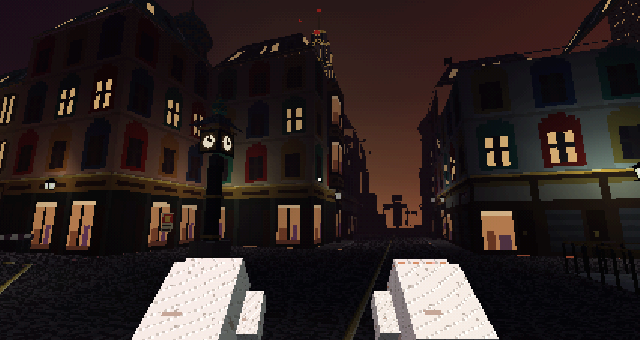
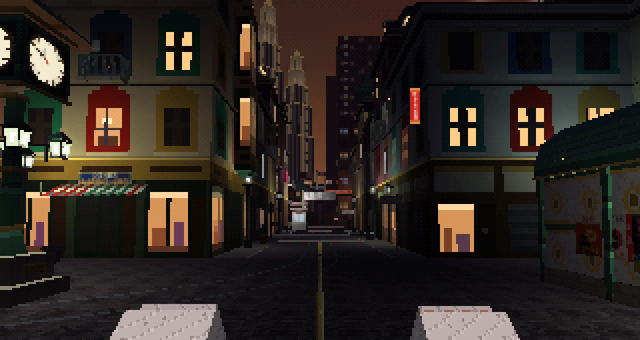
Street polish: checkpoint flags on the gantry, the booth's board clear of the post, cheaper road lighting, the near mesh's rule, tests, README, perf
- The close detail is its own baked mesh (2.9k) drawn within 62 m of the square (CFG.street.nearDraw); the street's mesh
  goes 23.0k -> 20.6k (coarser light cells on the open roads), so Act 1's far views are ~2.4k tris/eye cheaper.
- test/street.js: 59 checks (+ the near mesh and its rule, the landmarks solid, the fight lanes clear).
- docs/perf.md: the street's views and the far ones re-measured. docs/street.png reshot.

Claude-Session: https://claude.ai/code/session_01764GRfmVxgzpfD5b4d1H9q

diff --git a/src/street/build.js b/src/street/build.js
@@ -374,8 +374,8 @@ function checkpoint(acc, nd, z) {
   const bx = 2.9, bz = z + 0.4;
   sbox(acc, 'booth', bx, 0, bz, 2.0, 2.2, 2.7, 0, { u: 2.0, v: 2.7, top: 'concrete', faceKey: { b: 'booth', l: 'booth' } });
   sbox(acc, 'concrete', bx, 2.7, bz, 2.4, 2.6, 0.2, 0, { u: 2, v: 1 });
-  for (const s of [-1, 1]) sbox(nd, 'iron', bx + s * 0.9, 2.9, bz - 0.9, 0.06, 0.06, 0.5, 0, { u: 1, v: 1 });
-  plate(acc, 'militiaSign', bx, 3.62, bz - 0.9, 2.3, 0.58, Math.PI, 0.01, [0, 0, 1, 1], true);   // the board on the roof
+  for (const s of [-1, 1]) sbox(nd, 'iron', bx + 0.35 + s * 0.7, 2.9, bz - 0.9, 0.06, 0.06, 0.5, 0, { u: 1, v: 1 });
+  plate(acc, 'militiaSign', bx + 0.35, 3.6, bz - 0.9, 1.8, 0.46, Math.PI, 0.01, [0, 0, 1, 1], true);   // the board on the roof (clear of the gantry's post)
   plate(nd, 'stBoothSign', bx, 2.32, bz - 1.1, 1.0, 0.42, Math.PI, 0.02);
   sbox(acc, 'flood', bx - 0.8, 2.92, bz - 1.05, 0.3, 0.26, 0.24, 0.35, { u: 0.3, v: 0.24 });
   // the sign over the road: YOU ARE LEAVING THE OLD QUARTER (and, on the far side, the militia's own)
@@ -387,13 +387,13 @@ function checkpoint(acc, nd, z) {
   // the boom's counterweight post
   sbox(acc, 'iron', 1.7, 0, z, 0.3, 0.3, 1.1, 0, { u: 1, v: 1 });
   // FIREARMS ARE BANNED: a board on two posts on the left pavement, turned to the approach
-  { const cx = -3.55, cz = z - 4.5, phi = Math.PI - 0.38, [ax, az] = LP(cx, cz, phi, -0.95, 0), [ex, ez] = LP(cx, cz, phi, 0.95, 0);
-    plate(acc, 'stCheckR', cx, 2.42, cz, 2.0, 0.6, phi, 0.03);
-    plate(acc, 'concrete', cx, 2.42, cz, 2.0, 0.6, phi + Math.PI, 0.0);
+  { const cx = -3.7, cz = z - 4.5, phi = Math.PI - 0.3, [ax, az] = LP(cx, cz, phi, -0.75, 0), [ex, ez] = LP(cx, cz, phi, 0.75, 0);   // (its posts stay on the pavement)
+    plate(acc, 'stCheckR', cx, 2.42, cz, 1.6, 0.48, phi, 0.03);
+    plate(acc, 'concrete', cx, 2.42, cz, 1.6, 0.48, phi + Math.PI, 0.0);
     for (const [px, pz] of [[ax, az], [ex, ez]]) { sbox(acc, 'iron', px, 0, pz, 0.08, 0.08, 2.76, 0, { u: 1, v: 1 }); BLOCKERS.push({ x0: px - 0.08, x1: px + 0.08, z0: pz - 0.08, z1: pz + 0.08 }); WORLD_BOXES.push([px - 0.06, 0, pz - 0.06, px + 0.06, 2.76, pz + 0.06]); }
     ST.lamps.push(lightFromHex([cx + 0.6, 1.2, cz - 1.4], CFG.street.light.flood, 3.4, 0.7)); }
   // sandbags: round the booth's corner and either side of the road
-  sbox(acc, 'sandbag', bx + 1.35, 0, bz - 0.2, 0.7, 2.4, 0.95, 0, { u: 1.2, v: 0.6, top: 'sandbag', tu: 1.2 }); WORLD_BOXES.push([bx + 1.0, 0, bz - 1.4, bx + 1.7, 0.95, bz + 1.0]);
+  sbox(acc, 'sandbag', bx + 1.35, 0, bz - 0.2, 0.7, 2.4, 0.95, 0, { u: 1.2, v: 0.6, top: 'sandbag', tu: 1.2 }); WORLD_BOXES.push([bx + 1.0, 0, bz - 1.3, bx + 1.7, 0.95, bz + 1.0]);
   sbox(acc, 'sandbag', -4.0, 0, z + 1.2, 1.2, 1.2, 1.0, 0, { u: 1.2, v: 0.6, top: 'sandbag', tu: 1.2 });
   sbox(acc, 'sandbag', -6.2, 0, z + 2.6, 3.2, 0.9, 0.9, 0.35, { u: 1.2, v: 0.6, top: 'sandbag', tu: 1.2 });
   // the flags on the gantry over the sign: the Free City's plum and brass flying highest in the middle, the three
@@ -412,7 +412,7 @@ function checkpoint(acc, nd, z) {
   ST.lamps.push(lightFromHex([bx - 1.1, 2.0, bz], '#cfe6ff', 4.5, 0.8));
   ST.lamps.push(lightFromHex([bx, 3.9, bz - 1.6], CFG.street.light.flood, 3.2, 0.8));   // the roof board's own lamp
   WORLD_BOXES.push([bx - 1.0, 0, bz - 1.1, bx + 1.0, 2.7, bz + 1.1], [-4.4, 0.85, z - 0.07, 1.7, 1.06, z + 0.07]);
-  BLOCKERS.push({ x0: bx - 1.0, x1: bx + 1.7, z0: bz - 1.4, z1: bz + 1.1 });
+  BLOCKERS.push({ x0: bx - 1.0, x1: bx + 1.0, z0: bz - 1.1, z1: bz + 1.1 }, { x0: bx + 1.0, x1: bx + 1.7, z0: bz - 1.3, z1: bz + 1.0 });
   // the Accords wall's first watchtower, on the Columbian corner of the Ring Road: a concrete shaft, a lit cab, a searchlight
   { const tx = 7.2, tz = z + 13.5;
     sbox(acc, 'concrete', tx, 0, tz, 1.3, 1.3, 7.4, 0, { u: 2, v: 2 });

diff --git a/test/street.js b/test/street.js
@@ -47,6 +47,20 @@ try {
     check('the outdoor levels are a few meshes (street, skylines, sky, beacons, and at most two per level after the street)', streetMeshes.length <= 5 + 2 * nL, streetMeshes.length + ' static meshes for ' + nL + ' levels'); }
   const litTris = run('ST.lit.tris'), skyTris = run('ST.sky.tris');
   check('street + skylines under the triangle budget', litTris + skyTris < 80000, `${litTris} street + ${skyTris} skyline tris`);
+  // ---- the polish: the close detail (cornices, balconies, signs, the tram) is its own mesh, drawn only near the street
+  { const NM = TW.ST.nearMesh, nt = run('ST.nearTris'), nd = S.nearDraw;
+    const at = (x, z) => run(`(() => { const h = player.head.clone(); player.head.set(${x}, 1.7, ${z}); const ok = nearOk(ST.nearMesh); player.head.copy(h); return ok; })()`);
+    check('the street\'s close detail is one baked mesh drawn only near the street (the square, the road, the gate), never from Act 1\'s far views',
+      NM && NM.geometry.attributes.bake && TW.ROOMS.get('outside').meshes.has(NM) && NM.userData.near === nd && nt < 4000 && litTris + nt < 26000
+      && at(0, 7) && at(0, 50) && at(-3, 64) && !at(-40, 140) && !at(-36, 129) && !at(-160, 198),
+      `${nt} near tris + ${litTris} street (was 23038 street alone)`); }
+  // the square's landmarks are solid, and the fight lanes down the square and the road stay clear
+  { const solid = (x, z, r) => { const q = V(x, 0, z); TW.pushOutXZ(q, 0.3); return Math.hypot(q.x - x, q.z - z) > r; };
+    const [cx, cz] = TW.STREET.clock, [sx, sz] = TW.STREET.station;
+    check('the Brass Clock, Tripoint Station\'s pavilion and the poster column are solid', solid(cx, cz, 0.5) && solid(sx, sz, 1.0) && solid(sx + 1.3, sz - 1.9, 0.05) && solid(11.4, 17.4, 0.5));
+    let blocked = []; for (let z = 23; z <= 55.2; z += 0.4) for (const x of [-2.4, -1.2, 0, 1.2, 2.4]) { const q = V(x, 0, z); TW.pushOutXZ(q, 0.3); if (Math.hypot(q.x - x, q.z - z) > 1e-6) blocked.push(`${x},${z.toFixed(1)}`); }
+    for (let z = 6.5; z <= 21; z += 0.5) for (const x of [-4, -2, 0, 2, 4]) { const q = V(x, 0, z); TW.pushOutXZ(q, 0.3); if (Math.hypot(q.x - x, q.z - z) > 1e-6) blocked.push(`${x},${z.toFixed(1)}`); }
+    check('the fight lanes stay clear: nothing new stands in the square\'s middle or the road\'s cobbles', !blocked.length, blocked.slice(0, 4).join(' ') || 'clear'); }
   // ---- the skylines: the scale ladder, the moving lights, the Halcyon, all inside the camera's reach
   { const SKY = run('SKY'), H = SKY.heights, towerTop = run('typeof TWR !== "undefined" ? TWR.spire : 252'), far = TW.CFG.render.camFar;
     check('the skylines\' own share stays lean (big texture repeats, not geometry)', TW.ST.skylineTris < 16000, TW.ST.skylineTris + ' tris (was 16744 before the pass)');

diff --git a/README.md b/README.md
@@ -65,10 +65,17 @@ Desktop: mouse look, WASD, left/right click (or J/K) punch, Shift heavy, hold X 
 
 Clear the bar and the front door swings open onto **Tripoint Square** at night. Walk out and the street starts.
 
-- **The square:** Old Quarter tenements (plaster, Krasnovian painted window surrounds, Columbian cast-iron shopfronts, Hinomoto tile roofs) under green-copper and slate roofs, lit by pale gaslight. The Brass Clock (1888), sealed Tripoint Station, St. Vost Cathedral's onion domes over the roofs. Three brass lines in the setts (the Accords borders) meet at the Threeway's door. The Threeway's front: pink neon and all three flags over the door. The other two old roads are barricaded by the militia.
+- **The square:** Old Quarter tenements (plaster, Krasnovian painted window surrounds, Columbian cast-iron shopfronts, Hinomoto tile roofs) under green-copper and slate roofs, lit by pale gaslight, with Secession detail: cornices on dentils, garland friezes, string courses, wrought-iron balconies, dormers on the mansards, a cast-iron oriel under a copper helmet, striped awnings, shop signs in the city's three scripts (APOTHEKE · АПТЕКА, TABAK, БУЛОЧНАЯ, DINER, КНИГИ · BOOKS, RADIO · РАДИО) and Hinomoto blade signs. Some life in the windows: someone looking out, a TV's blue, a radio's glow. Three brass lines in the setts (the Accords borders) meet at the Threeway's door in a brass roundel of the three sectors, 1962.
+  - **The Threeway's front**, the hero shopfront: pink neon (THE THREEWAY, a tube round the whole front, a BAR · БАР blade on the corner), the three flags hung as long banners between the upper windows, a fanlight over the door, a brass plate with its name in three scripts, and the owner at the upstairs window.
+  - **The Brass Clock (1888)**, the centrepiece: a green cast-iron column on a stepped stone plinth (1888 on all four sides), four gas lanterns on its arms, a drum with four lit opal faces at ten to midnight, a Hinomoto tile hat and a gilded onion.
+  - **Tripoint Station**, sealed: a Secession metro pavilion (Otto Wagner's Karlsplatz kind): white marble panels with gilt sunflowers in green iron, a copper barrel roof with gilt ribs, METRO over TRIPOINT in gold, a glass canopy, the stairs fading into the dark, and across them a welded grille, chained and padlocked, with the Accords' notice nailed on (STATION CLOSED · СТАНЦИЯ ЗАКРЫТА · 1962). Posters from all three sides on its flank, and an advertising column across the square.
+  - **St. Vost Cathedral** (1740s): cream walls, two towers and a tall drum, the gilded onions floodlit over the north-west roofs, the central cross at 46 m.
+  - **The barricades:** the other two old roads are shut by the militia: sandbags, sawhorses, knife rests wound with barbed wire, ROAD CLOSED · ПРОЕЗД ЗАКРЫТ, and a floodlight on a tripod glaring cold into the gaslit square. Behind the east one, **tram 3**, stranded since 1962 on its own rails, which run round the Brass Clock and down the old road.
+- **The old road:** tram line 3's dead rails either side of the Accords line, the struck-through TRAM 3 stop, shuttered shops, posters from all three sides pasted over each other and the militia's notices on top, TRIPOINT TRAVEL with its routes home (Krasnograd, Halcyon, Ōkyō) all SUSPENDED, and the militia's CHECKPOINT 30 M sign.
 - **The fight:** three stretches: the square (punks and a kicker from the side roads), the old road (boxer, Bat Boy, the cook), and the last stretch before the checkpoint (Aoki Security, the wrestler, a kicker). Each stretch holds you in until it's clear; go down and you restart that stretch at full health.
 - **Street props:** crates (break after two hits), bins (never break) and cast-iron street signs (swing long, like the bat). Grab, swing, throw.
-- **The end:** the joint-militia checkpoint: booth, floodlight, the Free City's flag with the three powers'. Walk up to the boom and it lifts. The Ring Road and the Accords wall start beyond it.
+- **The end:** the joint-militia checkpoint, a set piece in the spirit of the famous Cold War crossings (invented signs only): a floodlit booth with its board on the roof, MILITIA · МИЛИЦИЯ, sandbags, a gantry over the road (YOU ARE LEAVING THE OLD QUARTER, in three scripts) flying the Free City's plum-and-brass flag highest with the three powers' either side, FIREARMS ARE BANNED · VOSTBURG ACCORDS 1962 on the pavement, a two-headed floodlight mast and the Accords wall's first watchtower on the Ring Road's corner. Walk up to the boom and it lifts. The Ring Road and the Accords wall start beyond it.
+- **Cost:** the shell is the street's one baked mesh (20.6k triangles, was 23.0k: the open road surfaces are lit in coarser cells); the close detail (cornices, balconies, dormers, signs, knife rests, the tram) is a second baked mesh (2.9k) drawn only within 62 m of the square and the road (`CFG.street.nearDraw`), so Act 1's far views pay nothing for it and are ~2.4k triangles per eye cheaper than before. The new paintings take the street atlas from 1024 to 2048 rows.
 - **The skylines, and the scale ladder** (each act tops the last: the Tower of Labor 252 m < Civic Harmony's mast 320 m < Aoki 400 m): Hinomoto's black-glass neon cluster behind the Threeway, brush-lettered boards and blade signs on every tower, the Shuto Expressway's bike trails, and **Aoki Development**, a black glass spike with red neon up every edge, seven neon-ringed eaves and a three-tier lit pagoda crown that pulses red. Krasnovia's even field of panel slabs and the TV tower right of the road, the Tower of Labor's floodlit massing, gold cog and six sweeping searchlights to the north-west. Columbia's **Liberty Avenue** ridge running across the view: floodlit cream setback crowns with gold bands, sunbursts and spires; **Civic Harmony** with its empty floodlit mooring mast, joined by a lit skybridge to the **Royal Hotel** (gold mansard, red ROYAL neon); six gold searchlights crossing the sky; and the **Halcyon**, a cream-and-gold zeppelin (FLY HALCYON down its flanks) circling the ridge every 3½ minutes, two searchlights keeping on its hull. It never moors. Red beacons blink on top. The sky glows red, sodium and gold over each sector.
 
 ## Act 1, level 3: the Krasnovian gate and Superblock 14
@@ -191,7 +198,7 @@ Every number lives in `CFG` in `src/config.js` (level 2: `CFG.street`: the stret
 No headset needed. The tests run the real game script against a small stand-in for Three.js (math and scene graph only, no rendering):
 
 ```
-node test/street.js    # 56 checks: the scale ladder and the skylines (Aoki tallest, in reach of the far plane, the sky band, the sweeping beams, the zeppelin's flight, clearance and lap), one-mesh bar room, prop batches, LOD stand-ins (the far city's tiles over the skyline mesh's buffers, every vertex drawn once), portal culling, the door opens and leads outside, walls and crossings, baked light and the live lights outside/inside, the stretches (trigger, spawn, arena lock, clear, lose + restart), the boom, crates/bins/signs, draw calls + triangle budget, street physics cost
+node test/street.js    # 59 checks: the scale ladder and the skylines (Aoki tallest, in reach of the far plane, the sky band, the sweeping beams, the zeppelin's flight, clearance and lap), one-mesh bar room, prop batches, LOD stand-ins (the far city's tiles over the skyline mesh's buffers, every vertex drawn once), portal culling, the door opens and leads outside, walls and crossings, baked light and the live lights outside/inside, the stretches (trigger, spawn, arena lock, clear, lose + restart), the boom, crates/bins/signs, draw calls + triangle budget, the close detail's own mesh (drawn only near the street), the landmarks solid and the fight lanes clear, street physics cost
 node test/floors.js     # 29 checks: raised floors, ramps and stairs (a test staircase): the bar unchanged bit for bit, easing up a flight, landing edges, goons fighting, falling and getting up on a landing, props on floors
 node test/podezd.js     # 30 checks: in from the courtyard (no cut), the lobby, lift A breaks at the 7th, the landing, the link, the corridor fight, lift B, the roof (respawn on the roof), the cradle down; rides smooth (mm per frame), goons on their floors, rooms, physics cost
 node test/parade.js     # 50 checks: one baked mesh + triangle budget, nothing from the far city on it, west of x -6, the Tower's doorway left open, the reveal's framing (rays from the north doors at eye height to the Tower's doors, podium, tiers, cog and spire: nothing but the Tower in the way), THE TOWER OF LABOR once as you step out (then PARADE SQUARE), flat floor, out of the Palace's doors with no cut (a stub Palace if it isn't there), walls (the Palace's front, the ministry, the bleachers, the Tower's front) and solid floats/stand/drums/masts, the three fights in order (arena both ways, doors shut), restart after going down, the Tower's doors end it, hand-over with no jump, physics cost

diff --git a/docs/perf.md b/docs/perf.md
@@ -60,6 +60,33 @@ The street's own mesh (23k) can't be hidden this way. A sweep found it visible, 
 - **A sweep:** eyes on a 12 m grid over every outdoor walk rect, a cube of 6 views from each, with everything else drawn there (and the insides you could see into) as a black occluder. A hidden mesh never showed past its edge.
 - **Stills:** the 20 still viewpoints above plus 13 placed right at the rules' edges, before and after, compared pixel for pixel. 26 match exactly. The other 7 (the bar, the gym, the typing pool, the archive, the crossing, Station Square, one edge) differ by 9 to 276 pixels, in small spots that change from run to run anyway: shooting the unchanged build twice differs by up to 498 pixels in the same views. The causes are things the frozen clock doesn't stop: the bar's jukebox, the Palace's shutter mid-roll, the train, a prop settling.
 
+## Tripoint Square's polish pass (re-measured)
+
+Same method (one Quest-shaped eye, headless Chromium), my own viewpoints, so the "before" here is `main` at the start of the pass, not the table above. The clock isn't frozen in this run, so the moving lights shift a far-city tile now and then (a few hundred triangles either way).
+
+- **The street's one baked mesh** went from 23,038 to 20,608 triangles: the new set pieces (the clock, the station pavilion, the cathedral, the barricades, the checkpoint) cost ~1.3k, and the open road surfaces (the Ring Road, the side roads past the barricades, the brass lines) are lit in coarser cells, which saved ~3.7k. It is drawn on every outdoor level, so every far view got cheaper.
+- **The close detail is a second baked mesh**, 2,910 triangles (cornices and friezes, balconies, dormers, the oriel's helmet, shop signs and awnings, blade signs, posters, the knife rests and wire, the tram and its rails), drawn only with your eye within 62 m of (0, 30) (`CFG.street.nearDraw`, a `userData.near` rule): the square, the road, the Ring Road and the gate. One more draw call there.
+- The street atlas grew from 512 x 1024 to 512 x 2048 (about 50 new paintings).
+
+| View | Draws / eye | Tris / eye | Both eyes: tris |
+| --- | ---: | ---: | ---: |
+| The bar's door, looking out | 45 → 47 | 87,084 → 87,900 | 174,168 → 175,800 |
+| Tripoint Square, down the road | 39 → 40 | 85,808 → 86,314 | 171,616 → 172,628 |
+| Tripoint Square, west | 38 → 39 | 86,166 → 86,672 | 172,332 → 173,344 |
+| Tripoint Square, east | 39 → 40 | 85,604 → 86,110 | 171,208 → 172,220 |
+| Tripoint Square, back to the Threeway | 50 → 51 | 87,280 → 87,786 | 174,560 → 175,572 |
+| The road | 37 → 38 | 77,380 → 77,886 | 154,760 → 155,772 |
+| The checkpoint | 37 → 39 | 77,380 → 78,196 | 154,760 → 156,392 |
+| The gate, forward | 41 → 41 | 80,760 → 80,956 | 161,520 → 161,912 |
+| The gate, back to the boom | 45 → 46 | 86,568 → 87,074 | 173,136 → 174,148 |
+| The crossing, stepping off | 46 → 46 | 98,526 → 96,122 | 197,052 → 192,244 |
+| Podezd 3's wing roof (toward the Tower) | 41 → 40 | 103,080 → 100,366 | 206,160 → 200,732 |
+| Parade Square, toward the Tower | 42 → 41 | 91,630 → 88,916 | 183,260 → 177,832 |
+| Parade Square, back toward the Palace | 48 → 48 | 111,150 → 108,746 | 222,300 → 217,492 |
+| The tribune, looking at the city | 45 → 45 | 101,098 → 98,694 | 202,196 → 197,388 |
+
+The glass lift wasn't re-measured live (the script can't ride it), but it draws the same street mesh and not the near one, so it should drop by the same ~2.4k per eye as the tribune: about 222k → 217k across both eyes. The street's views rise by 0.5–1.6k per eye, to 156–176k across both eyes. The tightest views are still Parade Square back toward the Palace and the glass lift, now ~217k.
+
 ## JS per frame (Node, the tests' Three.js stand-in, no rendering)
 
 | Scenario | Before | After |
